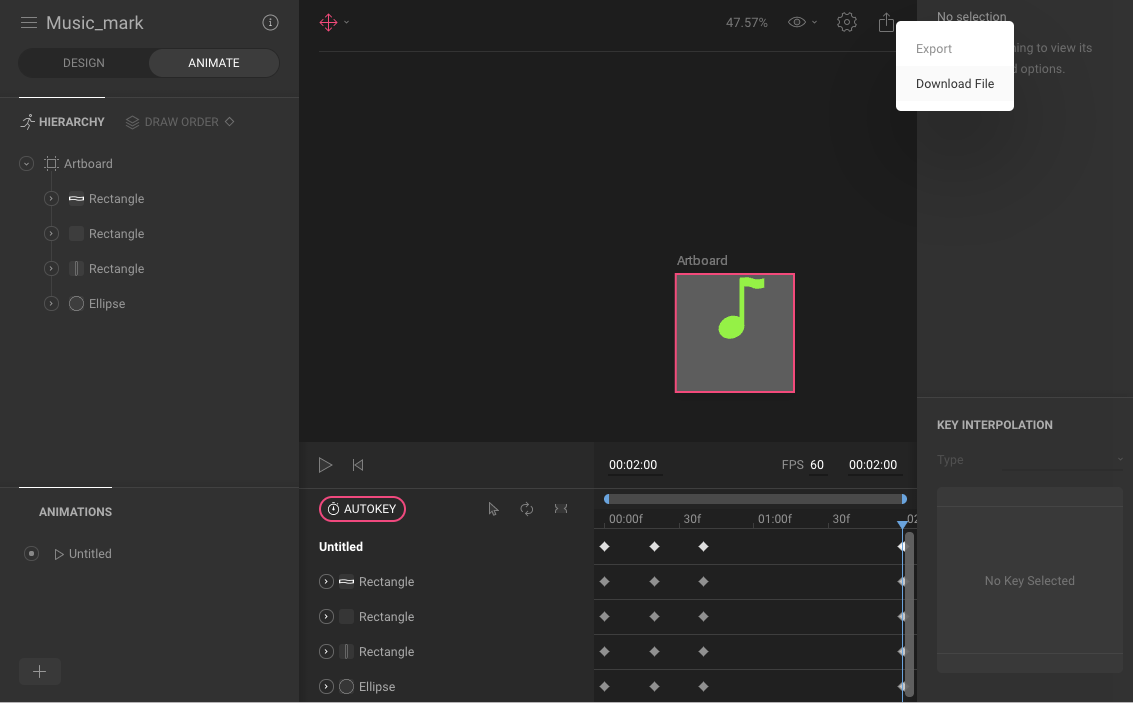
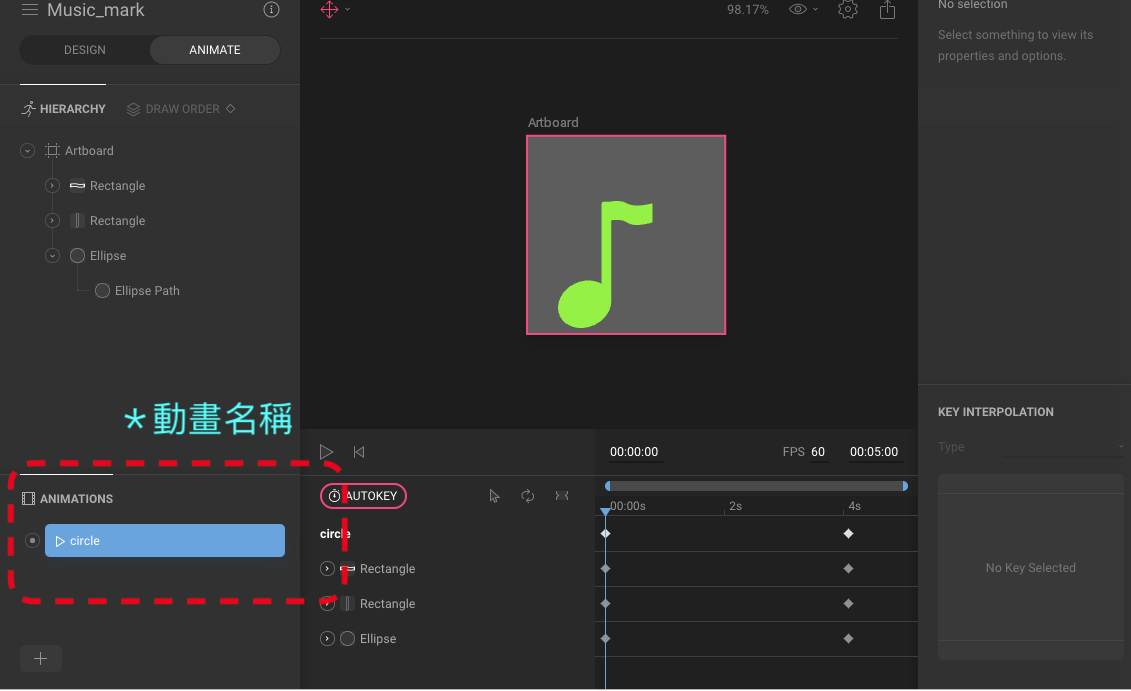
first upload

diff --git a/flare/README.md b/flare/README.md
@@ -3,21 +3,22 @@
 Flare 提供開發者使用.flr檔案繪製向量圖形與視覺動畫，開發者可以藉由[2dimensions](https://www.2dimensions.com/)網站繪製圖形以及動畫，開發者在網站上可以選擇開放「免費」與私有「付費」，來隱藏Projects。
 
 ## 繪製 .flr 向量檔
-a. 先進入[網站](https://www.2dimensions.com/a/tw00089923/files/flare/music-mark)
-![dependencies](src/dependencies_5.png)
-b. 命稱動畫名稱
-![dependencies](src/dependencies_4.png)
-c. 將檔案 export
+### a. 先進入[網站](https://www.2dimensions.com/a/tw00089923/files/flare/music-mark)
+![dependencies](src/dependencies_1.png)
+### b. 命稱動畫名稱
 ![dependencies](src/dependencies_2.png)
+### c. 將檔案 export
 ![dependencies](src/dependencies_3.png)
-d. 存放檔案 
+![dependencies](src/dependencies_4.png)
+### d. 存放檔案 
 /project/assets/file_name.flr
-
-
+** 注意： 路徑請確認正確。
 
 ## 安裝 Flare Package
 找到 Project/pubspec.yaml 下。
-![dependencies](src/dependencies_1.png)
+![dependencies](src/dependencies_5.png)
+![dependencies](src/dependencies_6.png)
+
 
 
 ## 參考
